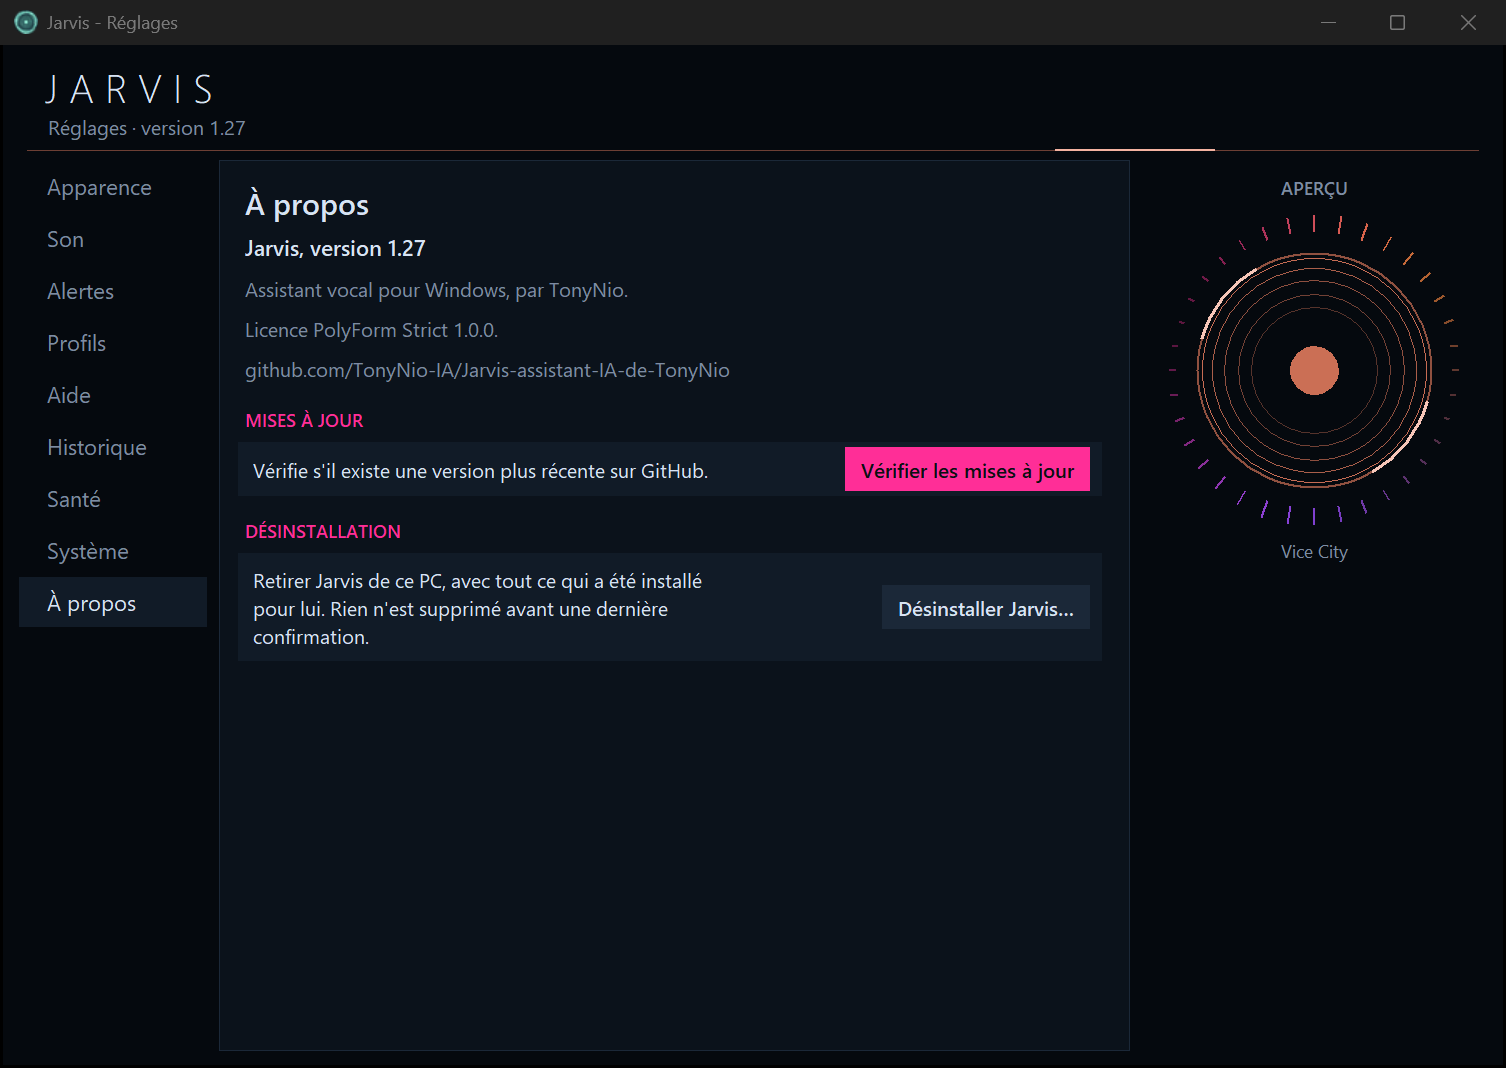
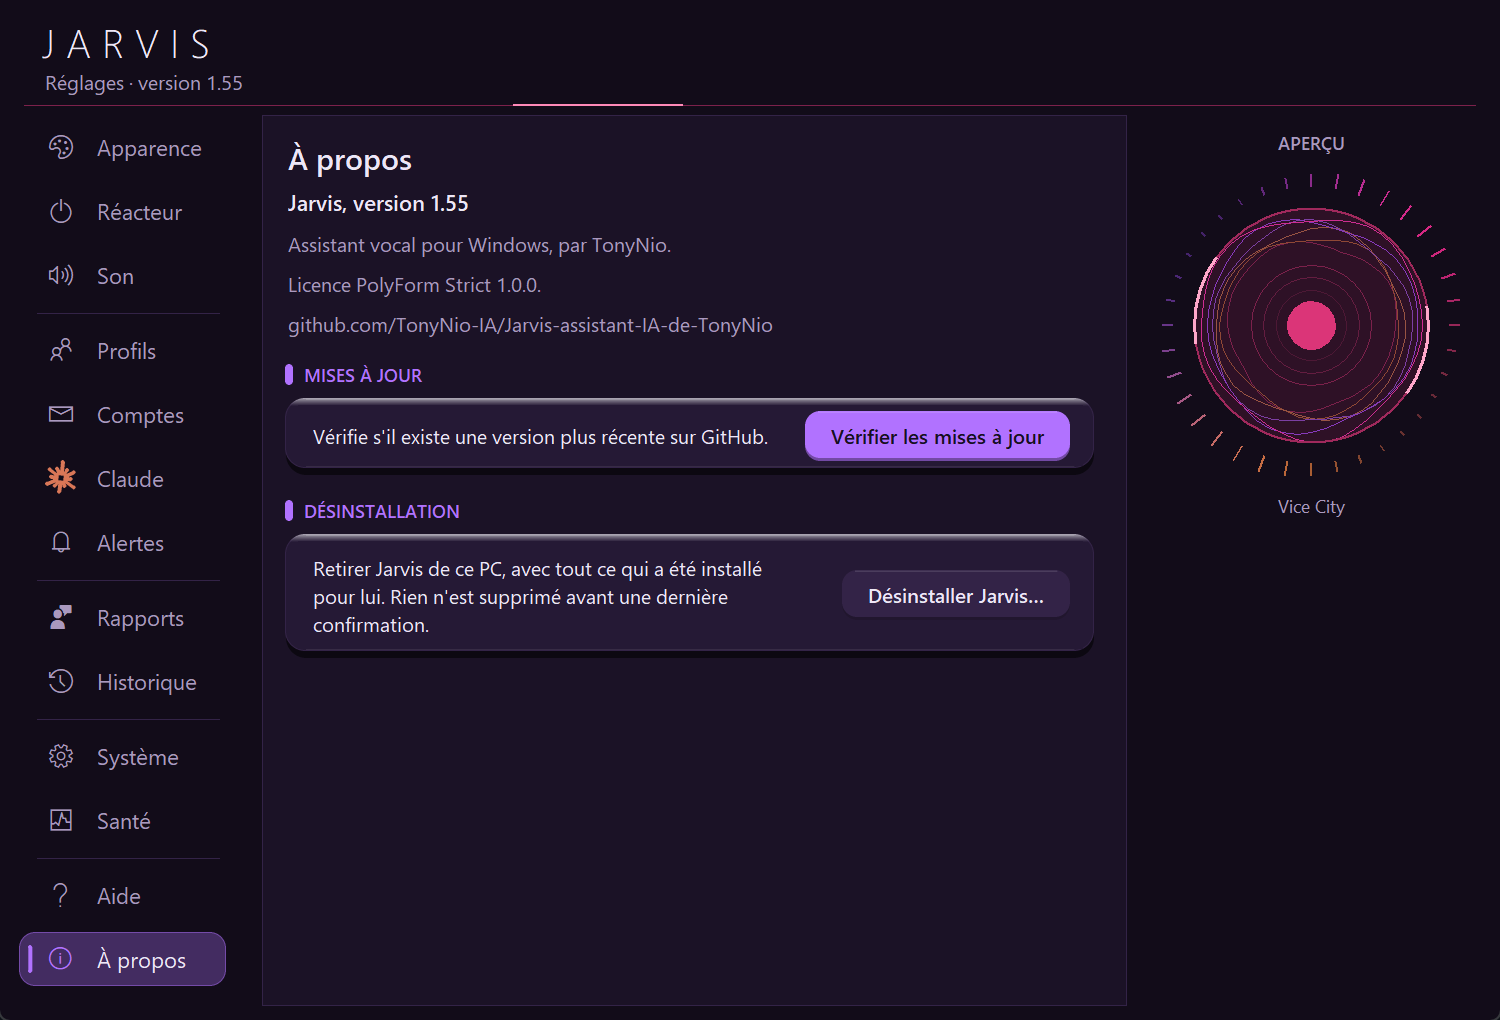
v1.55 (mise a jour forcee) : menu des reglages defilable (petits ecrans), ouverture des reglages fiabilisee (images Tk jamais liberees depuis un autre fil), apercu masque si la fenetre est etroite, captures du README refaites
Claude-Session: https://claude.ai/code/session_011gfDriaTVD4maEfVNnr65M

diff --git a/jarvis_reglages_ui.py b/jarvis_reglages_ui.py
@@ -13,6 +13,7 @@ Aide, À propos. Un petit réacteur en direct montre l'effet des réglages.
 jamais aux profils, aux mémoires, aux voix enregistrées, aux rappels, aux notes ni aux listes.
 """
 
+import jarvis_tk_sur  # noqa: F401  (images et variables Tk : jamais liberees depuis un autre fil)
 import datetime
 import json
 import math
@@ -507,10 +508,20 @@ _fenetre = {"ouverte": False, "devant": False}
 def ouvrir():
     """Ouvre la fenêtre de réglages (ou la ramène devant si elle est déjà ouverte)."""
     if _fenetre["ouverte"]:
-        _fenetre["devant"] = True
-        return
+        fil = _fenetre.get("fil")
+        bloquee = (fil is not None and not fil.is_alive()) or time.time() - _fenetre.get("pouls", 0) > 8
+        if not bloquee:
+            _fenetre["devant"] = True
+            return
+        # la fenêtre ne donne plus signe de vie (fil mort ou figé) : on repart sur une neuve
+        print("(Réglages : l'ancienne fenêtre ne répondait plus, j'en ouvre une neuve.)")
+    jeton = object()
+    _fenetre["jeton"] = jeton
     _fenetre["ouverte"] = True
-    threading.Thread(target=_fenetre_principale, daemon=True).start()
+    _fenetre["pouls"] = time.time()
+    fil = threading.Thread(target=_fenetre_principale, args=(jeton,), daemon=True)
+    _fenetre["fil"] = fil
+    fil.start()
 
 
 def _couleurs_theme():
@@ -540,13 +551,22 @@ def _degrade(palette, t):
     return _melange(_rgb(palette[i]), _rgb(palette[(i + 1) % n]), f)
 
 
-def _fenetre_principale():
+def _fenetre_principale(jeton=None):
     try:
         _construire()
     except Exception as erreur:
         print("Fenêtre de réglages :", erreur)
     finally:
-        _fenetre["ouverte"] = False
+        # Tk n'aime pas qu'un autre fil libère ses objets (interpréteur « abandonné », images qui ne
+        # se suppriment pas) : on vide tout ici, dans le fil de la fenêtre, avant qu'il se termine.
+        try:
+            _CACHE_IMG.clear()
+            import gc
+            gc.collect()
+        except Exception:
+            pass
+        if jeton is None or _fenetre.get("jeton") is jeton:
+            _fenetre["ouverte"] = False
 
 
 def _construire():
@@ -598,8 +618,27 @@ def _construire():
 
     corps = tk.Frame(racine, bg=FOND)
     corps.pack(fill="both", expand=True, padx=16, pady=(4, 14))
-    menu = tk.Frame(corps, bg=FOND, width=170)
-    menu.pack(side="left", fill="y", padx=(0, 12))
+    menu_cadre = tk.Frame(corps, bg=FOND)
+    menu_cadre.pack(side="left", fill="y", padx=(0, 12))
+    # Sur un petit écran ou dans une fenêtre réduite, tous les onglets ne tiennent pas : la colonne défile
+    # (molette sur la colonne, ou clic sur un onglet qui se remet de lui-même en vue), avec une fine barre.
+    menu_barre = tk.Canvas(menu_cadre, width=px(6), bg=FOND, highlightthickness=0)
+    menu_toile = tk.Canvas(menu_cadre, width=px(150), bg=FOND, highlightthickness=0)
+    menu_barre.pack(side="right", fill="y", pady=4)
+    menu_toile.pack(side="left", fill="y")
+    menu = tk.Frame(menu_toile, bg=FOND)
+    menu_fenetre = menu_toile.create_window((0, 0), window=menu, anchor="nw")
+
+    def position_barre_menu(debut, fin):
+        menu_barre.delete("all")
+        debut, fin = float(debut), float(fin)
+        if fin - debut < 0.999:
+            h = menu_barre.winfo_height()
+            menu_barre.create_line(px(3), debut * h + px(3), px(3), max(debut * h + px(8), fin * h - px(3)), width=px(4),
+                                   capstyle="round", fill=ASCENS)
+    menu_toile.configure(yscrollcommand=position_barre_menu)
+    menu.bind("<Configure>", lambda e: menu_toile.configure(scrollregion=(0, 0, e.width, e.height)))
+    menu_toile.bind("<Configure>", lambda e: menu_toile.itemconfigure(menu_fenetre, width=e.width))
     contenu_cadre = tk.Frame(corps, bg=PANNEAU, highlightthickness=1, highlightbackground=BORD)
     contenu_cadre.pack(side="left", fill="both", expand=True)
     apercu = tk.Canvas(corps, width=px(230), bg=FOND, highlightthickness=0)
@@ -624,7 +663,22 @@ def _construire():
     fenetre_page = toile.create_window((0, 0), window=page, anchor="nw")
     page.bind("<Configure>", lambda e: toile.configure(scrollregion=toile.bbox("all")))
     toile.bind("<Configure>", lambda e: toile.itemconfigure(fenetre_page, width=e.width))
-    racine.bind_all("<MouseWheel>", lambda e: toile.yview_scroll(int(-e.delta / 120), "units"))
+
+    def molette(e):
+        cible = toile
+        try:
+            w = racine.winfo_containing(e.x_root, e.y_root)
+            while w is not None:
+                if w is menu_cadre:
+                    debut, fin = menu_toile.yview()
+                    if fin - debut < 0.999:           # la colonne déborde : c'est elle qui défile
+                        cible = menu_toile
+                    break
+                w = w.master
+        except Exception:
+            pass
+        cible.yview_scroll(int(-e.delta / 120) or (-1 if e.delta > 0 else 1), "units")
+    racine.bind_all("<MouseWheel>", molette)
 
     def vider():
         for w in page.winfo_children():
@@ -1750,6 +1804,24 @@ def _construire():
         else:
             ic.configure(fg=accent["c"] if actif else DISCRET)
 
+    def voir_onglet(nom):
+        """Si la colonne défile, l'onglet choisi est ramené dans la partie visible."""
+        try:
+            vue = menu_toile.winfo_height()
+            total = menu.winfo_reqheight()
+            if vue < px(50) or total <= vue:
+                return
+            ligne = onglets[nom][0]
+            y1 = ligne.winfo_y()
+            y2 = y1 + ligne.winfo_height()
+            haut = menu_toile.canvasy(0)
+            if y1 < haut:
+                menu_toile.yview_moveto(max(0.0, (y1 - px(4)) / total))
+            elif y2 > haut + vue:
+                menu_toile.yview_moveto(min(1.0, (y2 - vue + px(4)) / total))
+        except Exception:
+            pass
+
     def montrer(nom, fonction):
         courant.update(nom=nom, f=fonction)
         for n in onglets:
@@ -1759,6 +1831,7 @@ def _construire():
         try:
             fonction()
             racine.update()
+            voir_onglet(nom)
         finally:
             toile.coords(fenetre_page, 0, 0)
     for nom, fonction in pages:
@@ -1822,6 +1895,7 @@ def _construire():
     tic = {"n": 0}
 
     def animer():
+        _fenetre["pouls"] = time.time()
         if _fenetre["devant"]:
             _fenetre["devant"] = False
             racine.deiconify()
@@ -1895,6 +1969,24 @@ def _construire():
         racine.after(int(_fenetre.pop("fermer_apres") * 1000), racine.destroy)
     animer()
     racine.protocol("WM_DELETE_WINDOW", racine.destroy)
+
+    def adapter_largeur(e):
+        if e.widget is not racine:
+            return
+        etroite = e.width < px(940)
+        if etroite and apercu.winfo_ismapped():
+            apercu.pack_forget()
+        elif not etroite and not apercu.winfo_ismapped():
+            apercu.pack(side="left", fill="y", padx=(12, 0))
+    racine.bind("<Configure>", adapter_largeur, add="+")
+    try:                                           # à l'ouverture : devant tout (le réacteur peut être « toujours devant »)
+        racine.update_idletasks()
+        racine.lift()
+        racine.attributes("-topmost", True)
+        racine.after(400, lambda: racine.attributes("-topmost", False))
+        racine.focus_force()
+    except Exception:
+        pass
     racine.mainloop()
 
 

diff --git a/jarvis_tk_sur.py b/jarvis_tk_sur.py
@@ -1,0 +1,44 @@
+# -*- coding: utf-8 -*-
+"""Tk et les fils : une image ou une variable Tk ne doit être libérée que par le fil qui l'a créée.
+
+Les fenêtres de Jarvis (réglages, rapports, QR...) tournent chacune dans leur propre fil. Quand le ramasse-miettes
+de Python, lancé depuis un AUTRE fil (le réacteur, par exemple), libère une image ou une variable de cette
+fenêtre, Tk doit réveiller le fil de la fenêtre pour exécuter la suppression et attend sa réponse : si ce fil est
+occupé ou déjà terminé, ça bloque (ou ça affiche « main thread is not in main loop »). C'est ce qui pouvait figer la
+fenêtre des réglages, voire Jarvis, qu'il fallait alors relancer.
+
+Ici, une image ou une variable libérée depuis un autre fil est simplement laissée telle quelle (quelques octets,
+nettoyés avec la fenêtre) ; libérée depuis son propre fil, rien ne change.
+"""
+import threading
+
+
+def securiser():
+    try:
+        import tkinter
+    except Exception:
+        return
+    if getattr(tkinter, "_jarvis_fils_surs", False):
+        return
+    tkinter._jarvis_fils_surs = True
+    for classe in (tkinter.Image, tkinter.Variable):
+        init_origine = classe.__init__
+        suppr_origine = getattr(classe, "__del__", None)
+        if suppr_origine is None:
+            continue
+
+        def init(self, *a, _o=init_origine, **k):
+            self._jarvis_fil = threading.get_ident()
+            _o(self, *a, **k)
+
+        def suppr(self, _o=suppr_origine):
+            fil = getattr(self, "_jarvis_fil", None)
+            if fil is not None and fil != threading.get_ident():
+                return                      # pas depuis ce fil : on ne réveille pas le fil de la fenêtre
+            _o(self)
+
+        classe.__init__ = init
+        classe.__del__ = suppr
+
+
+securiser()

diff --git a/jarvis_claude.py b/jarvis_claude.py
@@ -90,7 +90,7 @@ def rapport(nom, *args, **kwargs):
     except Exception as erreur_rapport:
         print("(Rapports :", nom, type(erreur_rapport).__name__, ")")
 
-VERSION = "1.54"              # numéro de version de Jarvis (même numéro que sur GitHub)
+VERSION = "1.55"              # numéro de version de Jarvis (même numéro que sur GitHub)
 
 # ===== Réglages =====
 MODEL_PATH = jarvis_config.chemin("vosk-model-small-fr-0.22")

diff --git a/jarvis_fenetre_qr.py b/jarvis_fenetre_qr.py
@@ -8,6 +8,7 @@ enregistrée. Il suffit de le viser avec l'appareil photo d'un téléphone ou d'
 Pour la tablette ("etapes": true), des écrans dessinés montrent quoi toucher à chaque étape.
 La fenêtre se ferme toute seule après quelques minutes, ou d'un clic, ou avec Échap.
 """
+import jarvis_tk_sur  # noqa: F401  (images et variables Tk : jamais liberees depuis un autre fil)
 import json
 import sys
 import tkinter as tk

diff --git a/jarvis_rapports_ui.py b/jarvis_rapports_ui.py
@@ -5,6 +5,7 @@ JARVIS - fenêtres des rapports : l'accord (au premier lancement), « Signaler u
 Chaque fenêtre s'ouvre dans son propre fil, comme la fenêtre de réglages.
 """
 
+import jarvis_tk_sur  # noqa: F401  (images et variables Tk : jamais liberees depuis un autre fil)
 import threading
 import webbrowser
 

diff --git a/jarvis_reacteur.py b/jarvis_reacteur.py
@@ -17,6 +17,7 @@ Déplacer   :  clic gauche maintenu sur le réacteur
 Quitter    :  clic droit sur le réacteur, puis « Arrêter Jarvis »
 """
 
+import jarvis_tk_sur  # noqa: F401  (images et variables Tk : jamais liberees depuis un autre fil)
 import ctypes
 import math
 import random

diff --git a/README.md b/README.md
@@ -1,6 +1,6 @@
 # Jarvis, assistant IA de TonyNio
 
-**English: [README.en.md](README.en.md)** · **Version actuelle : 1.54**
+**English: [README.en.md](README.en.md)** · **Version actuelle : 1.55**
 
 **Windows a bloqué le fichier ?** C'est normal sur les PC protégés par le « Contrôle intelligent des applications » : Jarvis est un projet personnel et gratuit, sans certificat de signature payant, donc Windows ne connaît pas son éditeur. Ouvre le Terminal (touche Windows + X), colle cette ligne, puis Entrée ([ce qu'elle fait et comment vérifier qu'elle est sûre](#bloque-par-windows)) :
 
@@ -39,6 +39,12 @@ Tout se règle sans toucher à un fichier : clic droit sur le réacteur puis « 
 - **Système** : démarrage avec Windows, sauvegarde et restauration, et « Par défaut » pour tout remettre comme à l'installation (sans toucher aux profils, mémoires et voix).
 - **Rapports** : aider à améliorer Jarvis (rien, rapport technique ou complet), « Signaler un problème », « Proposer une amélioration », « Voir ce qui partirait » et « Effacer mes données ». Détail : [ce qui est envoyé, et pourquoi](docs/confidentialite.md).
 - **À propos** : la version, les mises à jour, et le bouton « Désinstaller Jarvis… ».
+
+## Nouveau en 1.55
+
+- **Le menu de gauche des réglages défile** : sur un petit écran (portable en 1366 × 768, Windows réglé à 125 ou 150 %) ou dans une fenêtre réduite, tous les onglets ne tenaient pas et « À propos » restait hors d'atteinte. La colonne défile maintenant à la molette (une fine barre l'indique) et l'onglet choisi reste toujours en vue. Quand la fenêtre est étroite, l'aperçu du réacteur s'efface pour laisser la place aux réglages. Testé sur 13 tailles d'écran, de 1024 × 600 à 4K, de 100 à 200 %.
+- **La fenêtre des réglages s'ouvre à coup sûr** : il arrivait qu'elle se bloque à l'ouverture (clic droit, Réglages) et qu'il faille relancer Jarvis. Cause : Tk, la bibliothèque des fenêtres, n'aime pas qu'une image soit libérée depuis un autre fil de Jarvis. C'est corrigé, et si une ancienne fenêtre ne répond plus, un nouveau clic en ouvre une neuve. Elle passe aussi devant toutes les fenêtres à l'ouverture.
+- Les captures des réglages ci-dessus sont refaites au nouveau design (Profils et À propos comprises, avec de faux profils).
 
 ## Nouveau en 1.54
 
